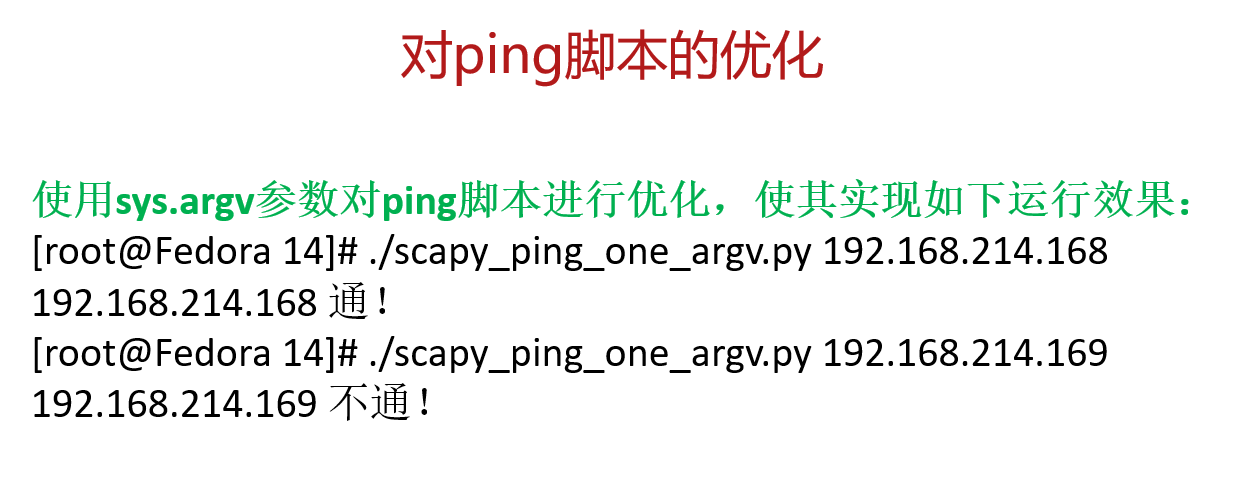
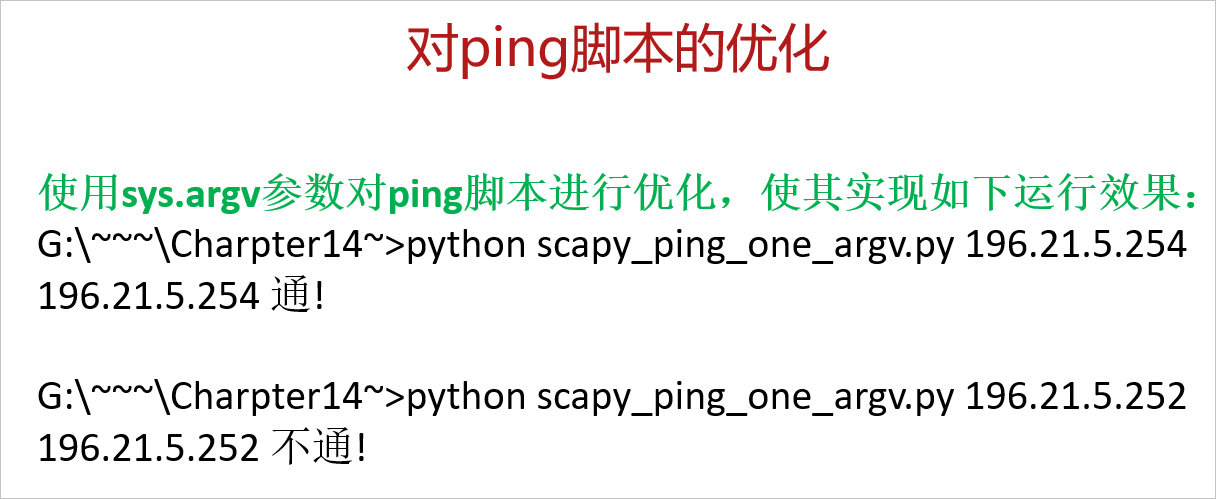
修改第十四章作业图

diff --git a/Charpter14_內建模块os,sys,datetime,optparse/scapy_ping_one_argv.py b/Charpter14_內建模块os,sys,datetime,optparse/scapy_ping_one_argv.py
@@ -1,0 +1,30 @@
+#!/usr/bin/env python3
+# -*- coding=utf-8 -*-
+# 本脚由亁颐堂现任明教教主编写，用于乾颐盾Python课程！
+# 教主QQ:605658506
+# 亁颐堂官网www.qytang.com
+# 教主技术进化论拓展你的技术新边疆
+# https://ke.qq.com/course/271956?tuin=24199d8a
+
+import logging
+logging.getLogger("scapy.runtime").setLevel(logging.ERROR)
+from scapy.all import *
+
+
+def qytang_ping(ip):
+    ping_pkt = IP(dst=ip) / ICMP()
+    ping_result = sr1(ping_pkt, timeout=2, verbose=False)
+    if ping_result:
+        return ip,1
+    else:
+        return ip,0
+
+
+if __name__ == '__main__':
+    import sys
+    result = qytang_ping(sys.argv[1])
+
+    if result[1]:
+        print(result[0], '通!')
+    else:
+        print(result[0], '不通!')
